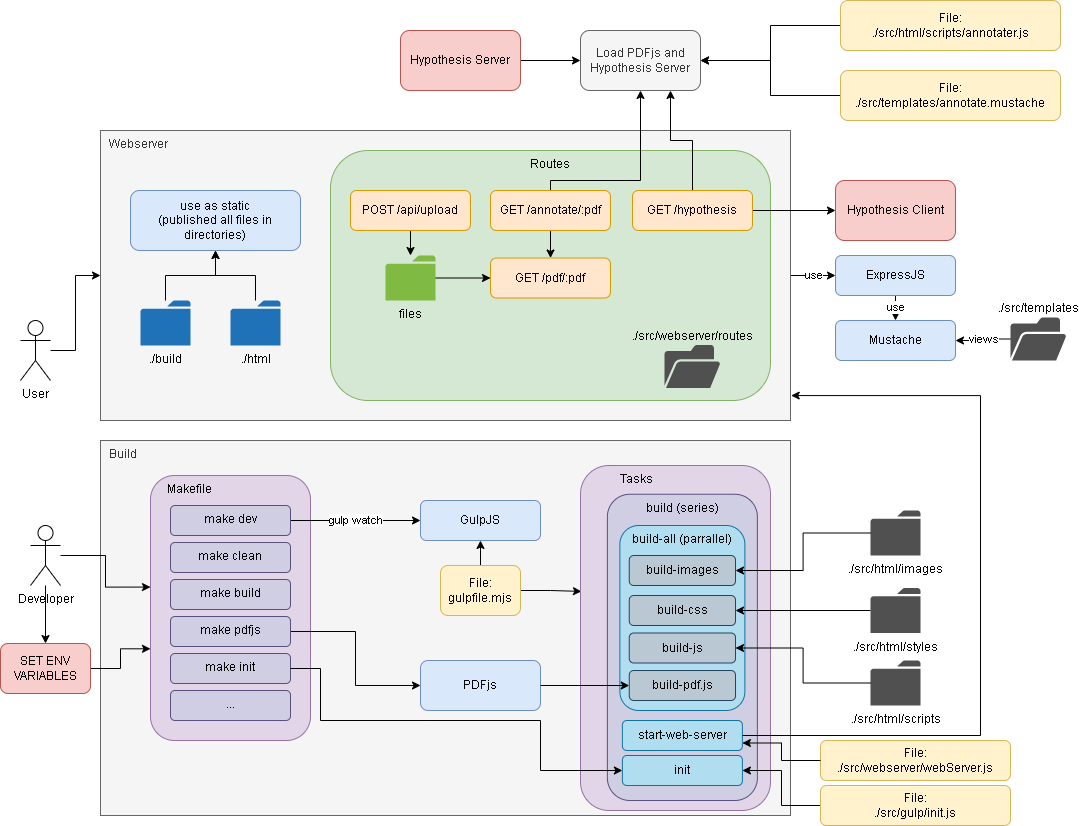
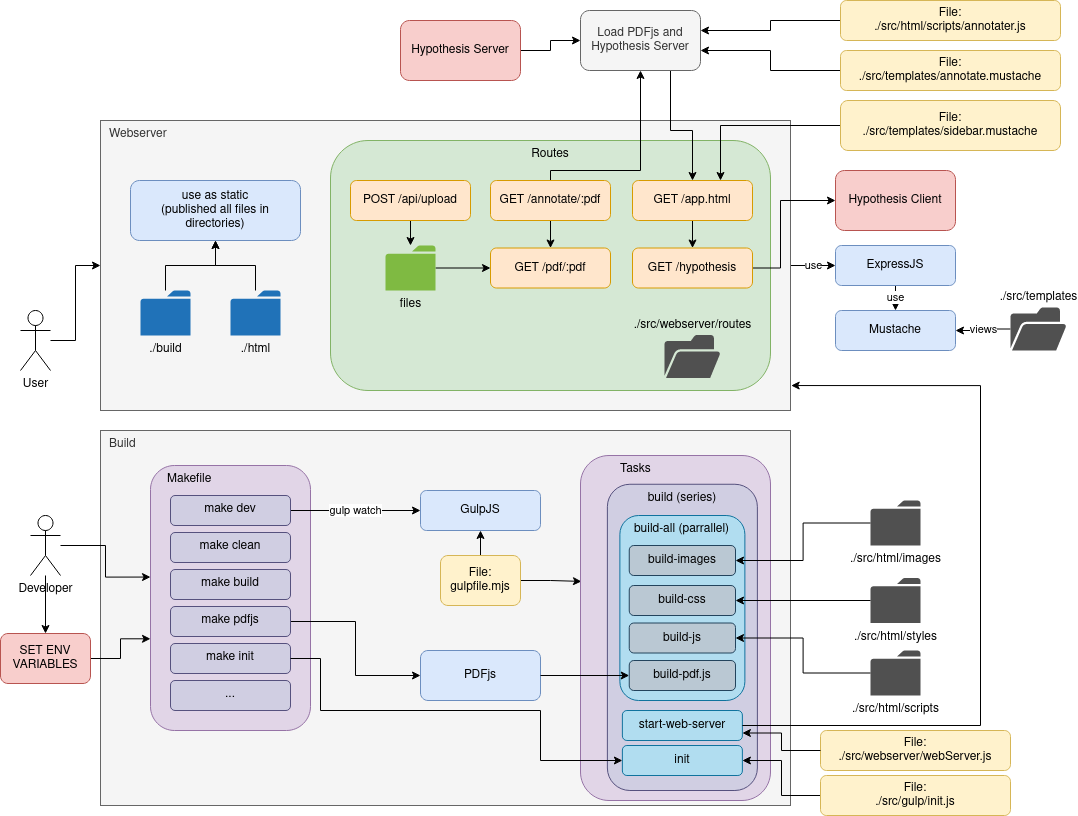
update architecture file with sidebar structure

diff --git a/content-server/README.md b/content-server/README.md
@@ -5,7 +5,8 @@ This directory contains all files to serve the frontend website to the user.
 
 ## Architecture
 For an overview of the complete architecture, see ./docs/architecture.drawio\
-(You can use either the [PyCharm Plugin](https://plugins.jetbrains.com/plugin/15635-diagrams-net-integration) as well as the [Website](http://app.diagrams.net))\
+__Remark__: You can use either the [PyCharm Plugin](https://plugins.jetbrains.com/plugin/15635-diagrams-net-integration) as well as the [Website](http://app.diagrams.net) \
+(For Pycharm Dark Mode User set it to Light (Kennedy) under Settings -> Languages & Frameworks -> diagrams.net) \
 __Note:__ If you change anything on the structure, also update the architecture file!
 
 ### Architecture of the Content Server
